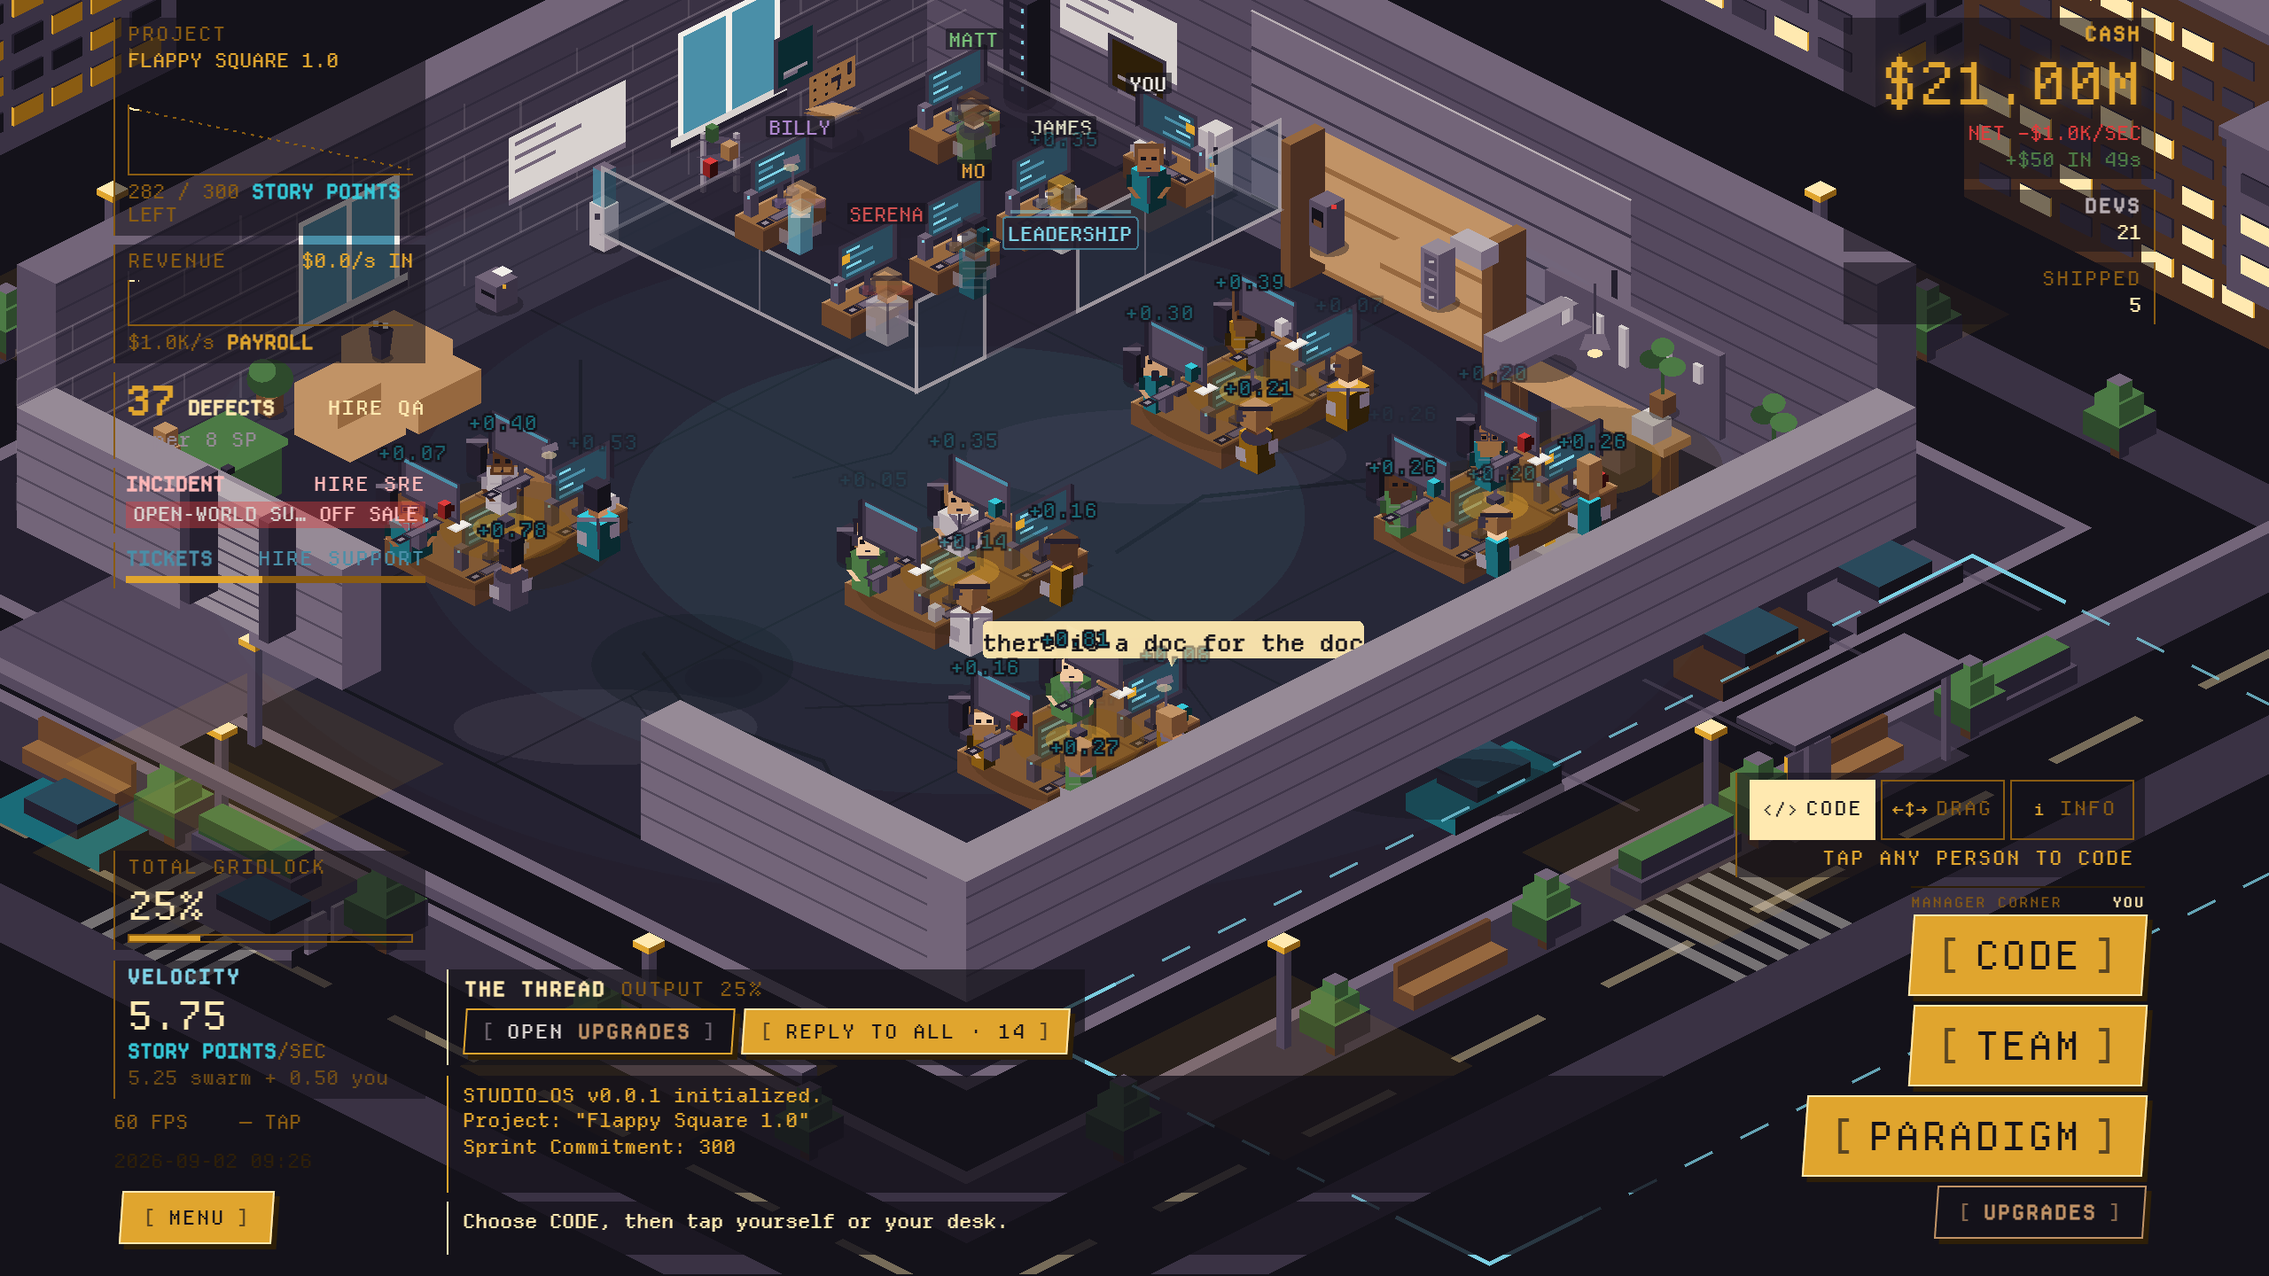
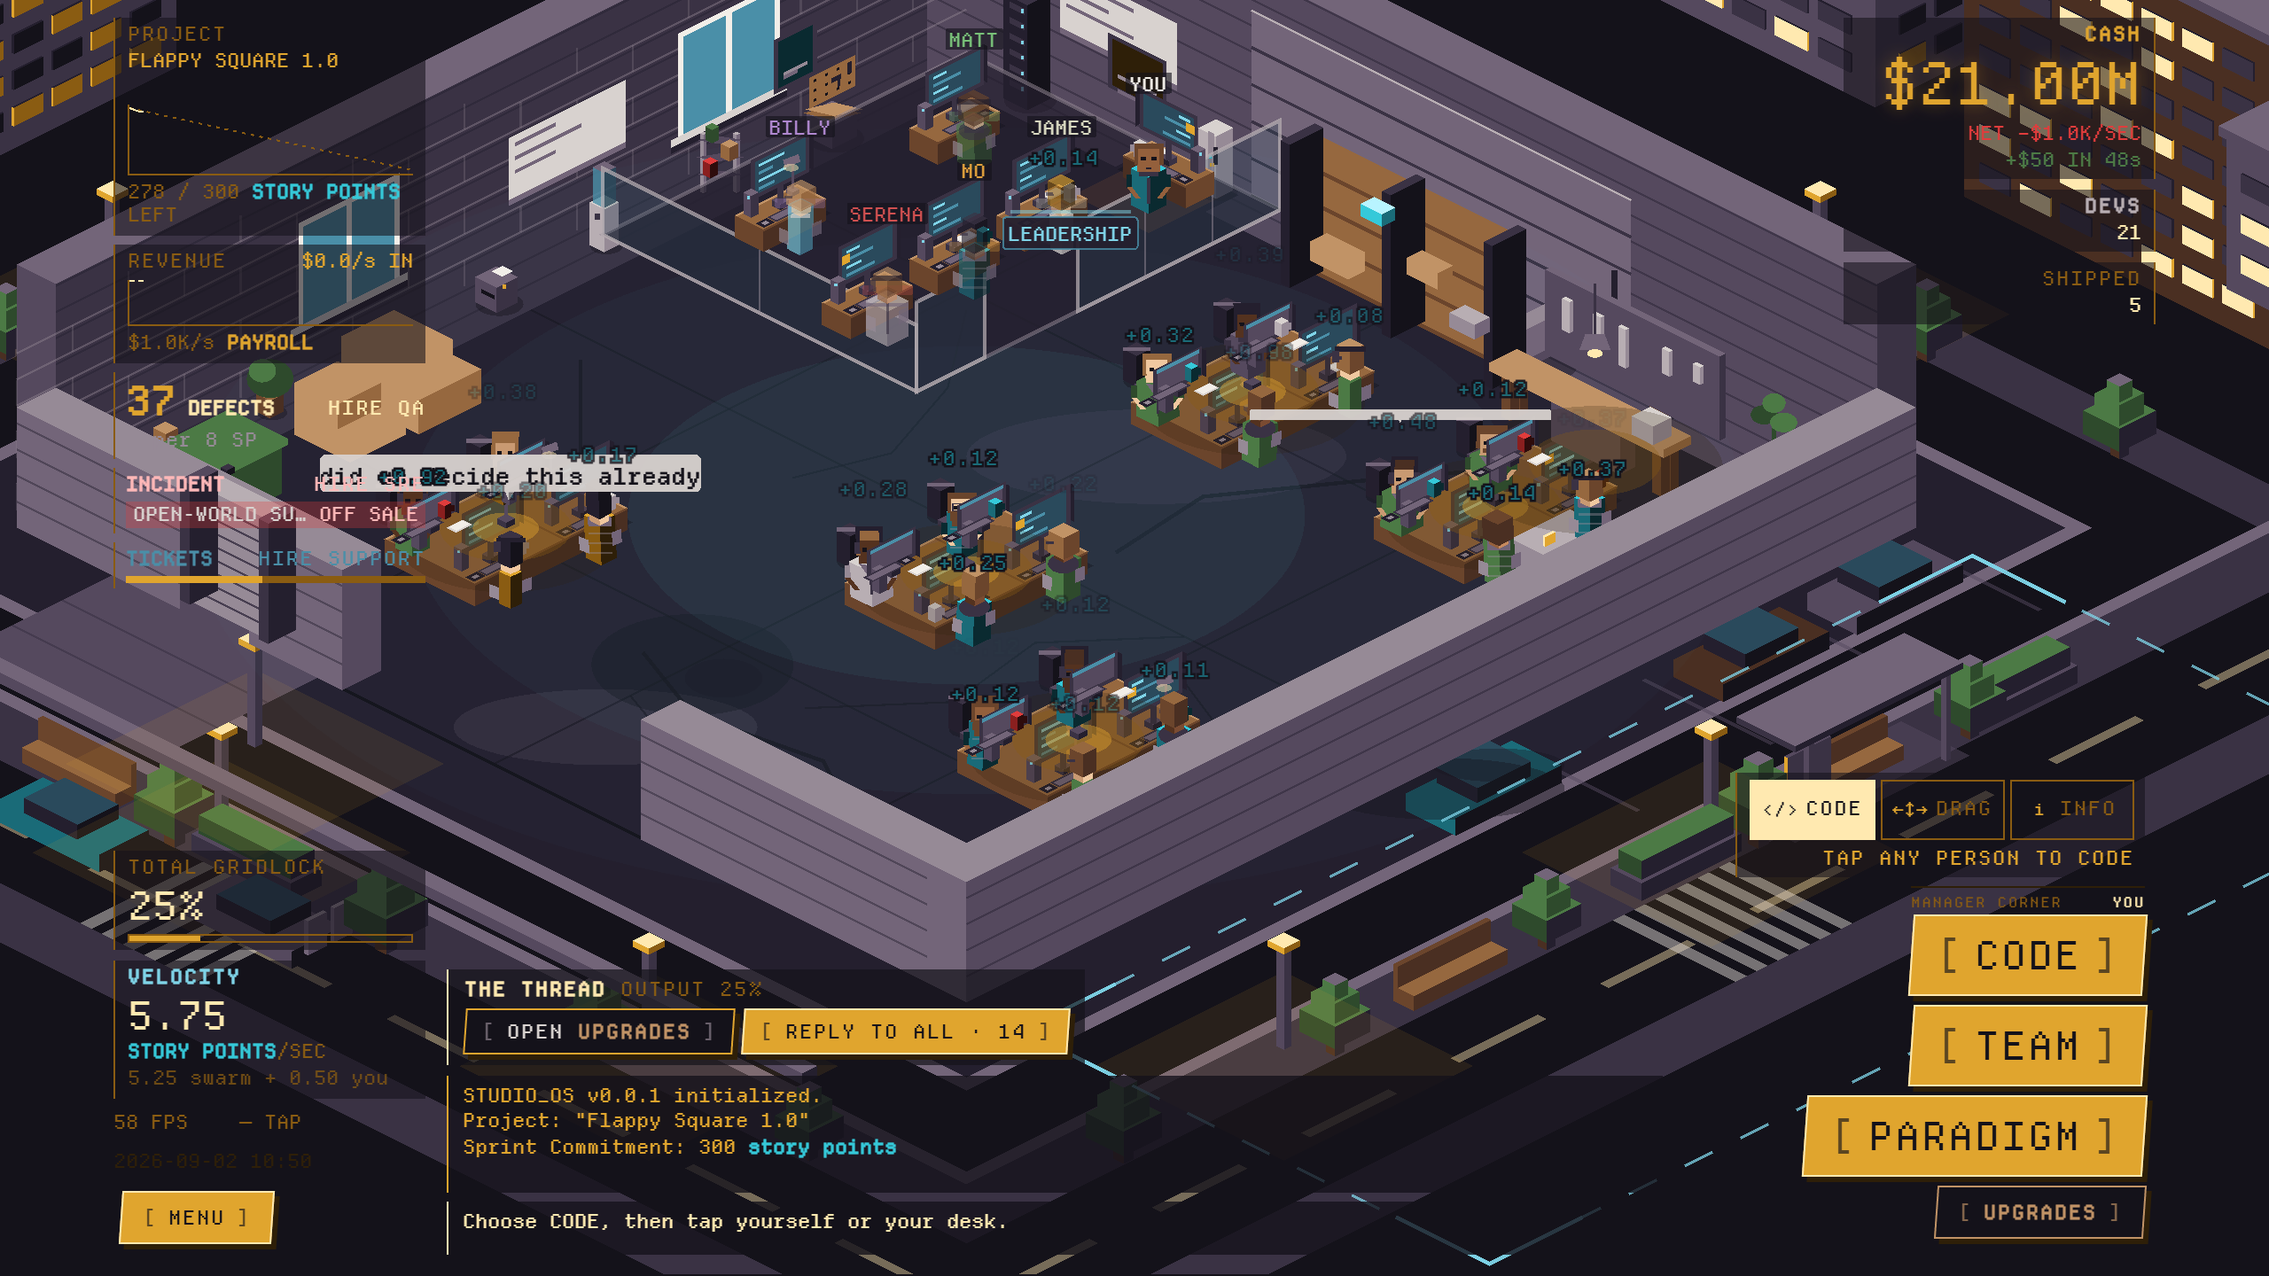
fix: a turned screen does not turn its plane, and the clutter stands in front of the glass
Four defects found by looking at the render at four times magnification
rather than at a downscaled side-by-side. All four were invisible at the
scale I had been checking, which is the lesson.

The screen plane. Mirroring a workstation flipped the panel's shear as well
as its position - S = -0.5 * face. A monitor is a vertical panel whose
horizontal extent runs along gy, and that holds whichever way its owner
faces: turning somebody round moves the screen to the other side of the desk
and points its normal the other way, and the plane never changes. Flipping it
put half the screens on a third slope this projection does not have. That is
the exact class of defect test:room was written for, and it slipped under
because that gate measures walls, not props.

The mount height. A monitor is drawn upward from its desk point, which is
right for somebody facing away. For somebody facing you the desk point moves
five pixels down the screen while the panel climbs thirty, so it lands above
their head. No offset fixes it - the desk would have to be two tiles nearer
the camera. The concept stands both rows' screens back to back in the middle
of the table, low, against torsos. So a turned monitor is mounted at desk
height on a short neck and drawn smaller.

The glass. Garage props were in `furniture`, which paints before
`teamArchitecture`, so the suite's glass was drawn through a two-metre shelf
stack. It never showed on the office floor because the suite is far from the
[…]

diff --git a/src/render/room.ts b/src/render/room.ts
@@ -1215,21 +1215,31 @@ function drawGarageProp(g: Graphics, p: Project, plot: Plot) {
 
   switch (plot.name) {
     case 'THE SHELVES': {
-      // Uprights and four shelf boards, with boxes standing on two of them. The
-      // gaps between the boards are what makes it a shelf unit rather than a
-      // cupboard, so they are drawn as *space* — no back panel.
+      /*
+       * **The gaps are the object.** [2026-09-02]
+       *
+       * The first version put a box on nearly every tier at nearly full depth,
+       * and the result was a solid tan slab with two lines on it — a cupboard,
+       * or a wall. A shelf unit is read from the *voids*: you know it is
+       * shelving because you can see through it between the boards.
+       *
+       * So the boards are dark and thin, the uprights darker still, and the
+       * contents are small, sparse and at three different depths. Four objects
+       * on four tiers, none of them full width, and two tiers left empty.
+       */
       const TIERS = 4
       for (let i = 0; i < TIERS; i++) {
-        box(x, y, 0.5 + i * 0.55, w, d, 0.09, RAMPS.WOOD, 1)
+        box(x, y, 0.42 + i * 0.55, w, d, 0.07, RAMPS.WOOD, 0)
       }
-      box(x, y, 0, 0.16, d, 2.3, RAMPS.WOOD, 0)
-      box(x + w - 0.16, y, 0, 0.16, d, 2.3, RAMPS.WOOD, 0)
-      // Two cardboard boxes and a paint tin, on different shelves. Placed by
-      // hand: three objects at three heights reads as storage, and a row of
-      // identical ones reads as a shop.
-      box(x + 0.4, y + 0.15, 0.59, 0.8, d * 0.6, 0.42, RAMPS.WOOD, 3)
-      box(x + 1.7, y + 0.2, 1.14, 0.6, d * 0.5, 0.34, RAMPS.WOOD, 2)
-      box(x + 2.6, y + 0.15, 1.69, 0.5, d * 0.5, 0.3, RAMPS.NEUTRAL, 4)
+      box(x, y, 0, 0.14, d, 2.3, RAMPS.NEUTRAL, 0)
+      box(x + w - 0.14, y, 0, 0.14, d, 2.3, RAMPS.NEUTRAL, 0)
+      box(x + w / 2 - 0.07, y, 0, 0.14, d, 2.3, RAMPS.NEUTRAL, 0)
+      // Three things, small, on three of the four tiers — and the top one left
+      // bare, because a shelf with something on every level is a stock room.
+      box(x + 0.35, y + 0.16, 0.49, 0.62, d * 0.5, 0.3, RAMPS.WOOD, 3)
+      box(x + 1.9, y + 0.18, 1.04, 0.5, d * 0.45, 0.26, RAMPS.WOOD, 2)
+      box(x + 2.55, y + 0.14, 0.49, 0.4, d * 0.45, 0.24, RAMPS.NEUTRAL, 4)
+      box(x + 1.15, y + 0.2, 1.59, 0.34, d * 0.4, 0.2, RAMPS.CALM, 1)
       break
     }
     case 'THE TOOL BOARD': {
@@ -2839,7 +2849,26 @@ export function drawWorkstation(g: Graphics, x: number, y: number, seat = 0, fac
   const off = deskOffset(face)
   const sx = x + off.x
   const sy = y + off.y - DESK_H
-  const S = -0.5 * face
+  /*
+   * **The screen's plane does not flip with the facing, and flipping it was the
+   * bug.** §7.8.0c [2026-09-02].
+   *
+   * A monitor is a vertical panel whose horizontal extent runs along `gy` —
+   * that is true of every screen in the room, whichever way its owner is
+   * looking, because turning a developer round moves the screen to the other
+   * side of the desk and points its *normal* the other way along `gx`. The
+   * plane it lies in is unchanged.
+   *
+   * `-0.5 * face` sheared it the other way as well, which is not a mirror of
+   * anything in this room: it put the turned screens on a third slope the 2:1
+   * projection does not have, leaning against the desk they stand on. Exactly
+   * the defect `test:room` exists to catch one scale up, reintroduced inside a
+   * prop small enough to slip under it.
+   *
+   * What the facing *does* change is where the panel sits ({@link deskOffset}),
+   * which of its faces is lit, and how high it is mounted — not its geometry.
+   */
+  const S = -0.5
 
   // --- what is on the surface, back to front ------------------------------
   //
@@ -2869,14 +2898,40 @@ export function drawWorkstation(g: Graphics, x: number, y: number, seat = 0, fac
     deskQuad(g, sx, sy, BACK - 0.01, -0.33, 0.22, 0.12, c(RAMPS.NEUTRAL[8]))
   }
 
+  /*
+   * **A turned screen is mounted low, and that is not a style choice.**
+   * §7.8.0c [2026-09-02].
+   *
+   * A monitor is drawn *upward* from its desk point, and for a developer facing
+   * away that is right — their desk is further from the camera, so the panel
+   * rises behind them and reads as standing on it. Mirror the same numbers for
+   * a developer facing *you* and the desk point moves only five pixels down the
+   * screen while the panel still climbs thirty, so it lands **above their
+   * head**: a screen apparently floating behind the person who is looking at
+   * the back of it.
+   *
+   * No offset fixes this. To push a panel below a person's head by geometry
+   * alone the desk would have to be two whole tiles nearer the camera, which is
+   * wider than the table.
+   *
+   * The concept shows what actually happens in the room: in a facing pod the
+   * two rows' screens stand **back to back in the middle of the table**, so you
+   * see them low, against people's torsos, never over their faces. So a turned
+   * monitor is mounted at desk height on a short neck and is smaller — which is
+   * also what a screen seen edge-on-ish from behind looks like.
+   */
+  const lift = face === 1 ? 30 : 17
+  const neck = face === 1 ? 14 : 5
   // The monitor's foot, then its neck, then the panel over both.
   isoBox(g, sx, sy - 1, 9, 3, RAMPS.NEUTRAL, 2, false)
-  const my = sy - 30
-  g.rect(sx - 1.5, my + 14, 3, 14).fill(c(RAMPS.NEUTRAL[2]))
+  const my = sy - lift
+  g.rect(sx - 1.5, my + neck, 3, lift - neck - 2).fill(c(RAMPS.NEUTRAL[2]))
 
   // Bezel, then the emissive face. The screen is the room's only light source,
   // so it is the one surface here allowed to ignore the top-left key.
-  wallQuad(g, sx, my - 2, 30, 21, S, c(RAMPS.NEUTRAL[2]))
+  const panelW = face === 1 ? 30 : 25
+  const panelH = face === 1 ? 21 : 15
+  wallQuad(g, sx, my - 2, panelW, panelH, S, c(RAMPS.NEUTRAL[2]))
   if (face === 1) {
     wallQuad(g, sx, my, 26, 17, S, c(RAMPS.GLOW[0]))
     // Code on it. Each line is a strip in the same plane, left-aligned along the
@@ -2907,19 +2962,23 @@ export function drawWorkstation(g: Graphics, x: number, y: number, seat = 0, fac
     // and the pod read as a heap of boxes. A screen's back is moulded plastic
     // and a chair's is upholstery — they are not the same colour in the room
     // either.
-    wallQuad(g, sx, my, 26, 17, S, c(RAMPS.NEUTRAL[3]))
+    wallQuad(g, sx, my, 21, 11, S, c(RAMPS.NEUTRAL[3]))
     // And the light escaping over its top edge, which is the only evidence the
     // thing is switched on. Two pixels, in the same plane, and it is what puts
     // the cyan on the face of the person behind it.
-    wallQuad(g, sx, my - 1, 27, 2, S, c(RAMPS.GLOW[1]))
+    wallQuad(g, sx, my - 1, 22, 2, S, c(RAMPS.GLOW[1]))
   }
   // The sliver of the monitor's own side that a panel turned away from the
   // camera shows. Two pixels, and it is the whole difference between a screen
   // and a decal. On the edge that is turning away, which swaps with `face`.
-  g.moveTo(sx + 15 * face, my - 9.5)
-    .lineTo(sx + 17 * face, my - 8.5)
-    .lineTo(sx + 17 * face, my + 10.5)
-    .lineTo(sx + 15 * face, my + 9.5)
+  // The sliver of the monitor's own side. It is on the same end whichever way
+  // the screen faces, for the same reason the slope is: the panel has not
+  // moved, only the side of it you are looking at.
+  const half = panelW / 2
+  g.moveTo(sx + half, my - panelH * 0.45)
+    .lineTo(sx + half + 2, my - panelH * 0.4)
+    .lineTo(sx + half + 2, my + panelH * 0.5)
+    .lineTo(sx + half, my + panelH * 0.45)
     .closePath()
     .fill(c(RAMPS.NEUTRAL[1]))
   // A sticky note on the bezel, on about half the screens. Four pixels of WARN
@@ -3483,6 +3542,22 @@ export function buildRoom(): RoomHandle {
    * they are painted first and then covered by every desk in the room, which is
    * a two-sided room again by a different route.
    */
+  /**
+   * §7.8.0c — **the garage's clutter, drawn after the executive suite.**
+   *
+   * The props were in `furniture`, which is painted *before* `teamArchitecture`
+   * — so §7.8.12's glass went over the top of them. On the office floor that
+   * never showed, because the suite is at the back of a room whose desks start
+   * several tiles away. A garage is small enough that the shelving stands right
+   * against the glass, and the glass won: a two-metre shelf stack with a pane
+   * drawn through it.
+   *
+   * It is not a sorting bug inside one layer. The suite is a *building* and the
+   * clutter is furniture standing on the floor in front of it, so they belong
+   * on opposite sides of it — the same argument §7.8.0c makes about the near
+   * half of a facing pod's kit, one object larger.
+   */
+  const garageProps = new Graphics()
   /** §7.8.0c — the near half of a facing pod's kit. See {@link frontDesks}. */
   const frontDeskLayer = new Container()
   const nearWall = new Graphics()
@@ -3504,6 +3579,7 @@ export function buildRoom(): RoomHandle {
     deskLayer,
     teamArchitecture,
     teamDeskLayer,
+    garageProps,
     managerDesk,
     devLayer,
     // Above the seated people and below the walkers: a monitor on the near side
@@ -5023,7 +5099,8 @@ export function buildRoom(): RoomHandle {
         const at = garagePlot(gx, gy)
         return isoAt(at.col, at.row)
       }
-      for (const prop of GARAGE_PROPS) drawGarageProp(furniture, planProject, prop)
+      garageProps.clear()
+      for (const prop of GARAGE_PROPS) drawGarageProp(garageProps, planProject, prop)
       /*
        * **The pendant over the workbench** — the garage's second warm source.
        *
@@ -5035,17 +5112,17 @@ export function buildRoom(): RoomHandle {
        * makes that corner a *place somebody works* rather than storage.
        */
       const bench = planProject(11.0, 0.9)
-      furniture.ellipse(bench.x, bench.y + 4, 66, 33).fill({ color: c(RAMPS.WARN[0]), alpha: 0.22 })
-      furniture.ellipse(bench.x, bench.y, 34, 17).fill({ color: c(RAMPS.WARN[1]), alpha: 0.3 })
-      furniture.rect(bench.x - 0.7, bench.y - 92, 1.4, 34).fill(c(RAMPS.NEUTRAL[2]))
-      furniture
+      garageProps.ellipse(bench.x, bench.y + 4, 66, 33).fill({ color: c(RAMPS.WARN[0]), alpha: 0.22 })
+      garageProps.ellipse(bench.x, bench.y, 34, 17).fill({ color: c(RAMPS.WARN[1]), alpha: 0.3 })
+      garageProps.rect(bench.x - 0.7, bench.y - 92, 1.4, 34).fill(c(RAMPS.NEUTRAL[2]))
+      garageProps
         .moveTo(bench.x - 8, bench.y - 58)
         .lineTo(bench.x + 8, bench.y - 58)
         .lineTo(bench.x + 5, bench.y - 66)
         .lineTo(bench.x - 5, bench.y - 66)
         .closePath()
         .fill(c(RAMPS.NEUTRAL[4]))
-      furniture.ellipse(bench.x, bench.y - 56, 4, 2.2).fill(c(RAMPS.WARN[3]))
+      garageProps.ellipse(bench.x, bench.y - 56, 4, 2.2).fill(c(RAMPS.WARN[3]))
       /*
        * **Superseded 2026-09-01, kept as the reason the seam above exists.**
        *

diff --git a/GDD.html b/GDD.html
@@ -4271,6 +4271,47 @@ reason the cables do not: everything else in the room does.</p>
 room a garage before the door has even been read, and it now lives in the plan's frame with the
 cables and the cracks rather than being positioned off the shell's screen box — three marks on one
 floor, through one conversion.</p>
+<h6 id="a-turned-screen-does-not-turn-its-plane">A turned screen does not turn its plane</h6>
+<p><strong>[2026-09-02, and it is the defect §7.8.0b was written to prevent.]</strong> Mirroring a
+workstation flipped the screen's <em>shear</em> along with its position:
+<code>S = -0.5 * face</code>. That is not a mirror of anything in this room. A monitor is a vertical
+panel whose horizontal extent runs along <code>gy</code>, and that is true of every screen on the
+floor whichever way its owner is looking — turning a developer round moves the screen to the other
+side of the desk and points its <em>normal</em> the other way along <code>gx</code>. The plane it
+lies in never changes.</p>
+<p>Flipping it put half the screens in the room on a third slope the 2:1 projection does not have,
+leaning against the desks they stand on. <strong>This is exactly the class of defect
+<code>test:room</code> exists to catch</strong> — it was written after three of four suite glass
+panes ran at illegal slopes — and it got in anyway, because that gate measures walls and this was a
+prop small enough to slip under it. What the facing legitimately changes is where the panel sits,
+which of its faces is lit, and how high it is mounted. Not its geometry.</p>
+<h6 id="a-turned-screen-is-mounted-low">A turned screen is mounted low</h6>
+<p>A monitor is drawn <em>upward</em> from its desk point, and for a developer facing away that is
+right: their desk is further from the camera, so the panel rises behind them and reads as standing on
+it. Mirror the same numbers for a developer facing <em>you</em> and the desk point moves five pixels
+down the screen while the panel still climbs thirty — so it lands <strong>above their head</strong>,
+a screen apparently floating behind the person looking at the back of it.</p>
+<p>No offset fixes that. To push a panel below a person's head by geometry alone the desk would have
+to be two whole tiles nearer the camera, which is wider than the table. The concept shows what
+actually happens: in a facing pod the two rows' screens stand <strong>back to back in the middle of
+the table</strong>, so you see them low, against torsos, never over faces. A turned monitor is
+therefore mounted at desk height on a short neck and drawn smaller — which is also what a screen seen
+from behind looks like.</p>
+<h6 id="the-clutter-belongs-in-front-of-the-glass">The clutter belongs in front of the glass</h6>
+<p>The garage's props were in <code>furniture</code>, which paints <em>before</em>
+<code>teamArchitecture</code> — so §7.8.12's glass went over the top of them and a two-metre shelf
+stack had a pane drawn through it. On the office floor this never showed, because the suite is at the
+back of a room whose desks start several tiles away; a garage is small enough that the shelving
+stands right against the glass, and the glass won.</p>
+<p>It is not a sorting bug inside one layer. The suite is a <em>building</em> and the clutter is
+furniture standing on the floor in front of it, so they belong on opposite sides of it — the same
+argument §7.8.0c makes about the near half of a facing pod's kit, one object larger.</p>
+<h6 id="the-gaps-are-the-shelf">On a shelf unit, the gaps are the object</h6>
+<p>The shelving had a box on nearly every tier at nearly full depth and came out a solid tan slab
+with two lines on it — a cupboard, or a wall. <strong>A shelf unit is read from its voids:</strong>
+you know it is shelving because you can see through it between the boards. The boards are now dark
+and thin, the uprights darker still, and the contents small, sparse and at three depths, with the top
+tier left bare — a shelf with something on every level is a stock room.</p>
 <h6 id="a-pod-that-reads-as-four-people-at-a-table">A pod that reads as four people at a table</h6>
 <p><strong>[2026-09-02.]</strong> The pods were not wrong in <em>size</em>, which is what a
 side-by-side first suggests. They were wrong in <strong>value</strong>: a chair back and a monitor's
